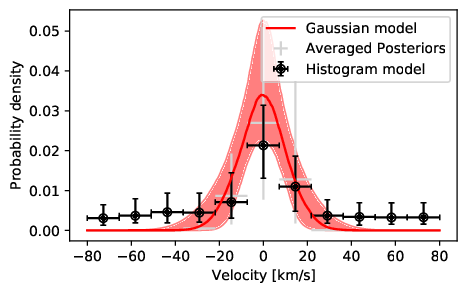
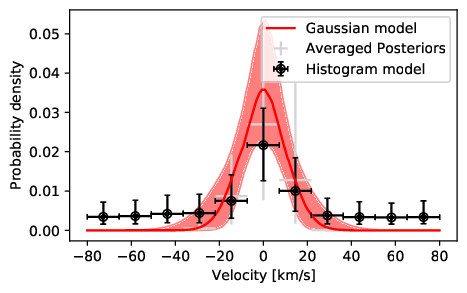
fresh run for tutorial

diff --git a/README.rst b/README.rst
@@ -130,56 +130,56 @@ We run the script with a range limit of +-100 km/s::
 
 	$ python3 posteriorstacker.py posteriorsamples.txt -80 +80 11 --name="Velocity [km/s]"
 	fitting histogram model...
-	[ultranest] Resuming from 2252 stored points
+	[ultranest] Sampling 400 live points from prior ...
 	[ultranest] Explored until L=-1e+01  
-	[ultranest] Likelihood function evaluations: 96583
+	[ultranest] Likelihood function evaluations: 95711
 	[ultranest] Writing samples and results to disk ...
 	[ultranest] Writing samples and results to disk ... done
-	[ultranest]   logZ = -20.48 +- 0.0688
-	[ultranest] Effective samples strategy satisfied (ESS = 791.9, need >400)
-	[ultranest] Posterior uncertainty strategy is satisfied (KL: 0.46+-0.10 nat, need <0.50 nat)
+	[ultranest]   logZ = -20.49 +- 0.06929
+	[ultranest] Effective samples strategy satisfied (ESS = 810.0, need >400)
+	[ultranest] Posterior uncertainty strategy is satisfied (KL: 0.45+-0.12 nat, need <0.50 nat)
 	[ultranest] Evidency uncertainty strategy is satisfied (dlogz=0.14, need <0.5)
 	[ultranest]   logZ error budget: single: 0.07 bs:0.07 tail:0.41 total:0.41 required:<0.50
 	[ultranest] done iterating.
 	
-	logZ = -20.477 +- 0.418
-	  single instance: logZ = -20.477 +- 0.074
-	  bootstrapped   : logZ = -20.484 +- 0.105
+	logZ = -20.500 +- 0.428
+	  single instance: logZ = -20.500 +- 0.072
+	  bootstrapped   : logZ = -20.491 +- 0.137
 	  tail           : logZ = +- 0.405
 	insert order U test : converged: True correlation: inf iterations
 	
-	    bin1                0.044 +- 0.042
-	    bin2                0.053 +- 0.051
-	    bin3                0.066 +- 0.058
-	    bin4                0.065 +- 0.058
-	    bin5                0.103 +- 0.086
-	    bin6                0.31 +- 0.13
-	    bin7                0.16 +- 0.10
-	    bin8                0.054 +- 0.051
-	    bin9                0.049 +- 0.046
-	    bin10               0.047 +- 0.043
-	    bin11               0.048 +- 0.044
+	    bin1                0.050 +- 0.048
+	    bin2                0.053 +- 0.050
+	    bin3                0.061 +- 0.056
+	    bin4                0.064 +- 0.055
+	    bin5                0.109 +- 0.085
+	    bin6                0.32 +- 0.13
+	    bin7                0.146 +- 0.099
+	    bin8                0.055 +- 0.054
+	    bin9                0.049 +- 0.048
+	    bin10               0.048 +- 0.045
+	    bin11               0.049 +- 0.046
 	fitting gaussian model...
-	[ultranest] Resuming from 3697 stored points
+	[ultranest] Sampling 400 live points from prior ...
 	[ultranest] Explored until L=-4e+01  
-	[ultranest] Likelihood function evaluations: 4706
+	[ultranest] Likelihood function evaluations: 4649
 	[ultranest] Writing samples and results to disk ...
 	[ultranest] Writing samples and results to disk ... done
-	[ultranest]   logZ = -47.66 +- 0.1163
-	[ultranest] Effective samples strategy satisfied (ESS = 1017.5, need >400)
-	[ultranest] Posterior uncertainty strategy is satisfied (KL: 0.46+-0.07 nat, need <0.50 nat)
-	[ultranest] Evidency uncertainty strategy is satisfied (dlogz=0.34, need <0.5)
-	[ultranest]   logZ error budget: single: 0.13 bs:0.12 tail:0.41 total:0.42 required:<0.50
+	[ultranest]   logZ = -47.54 +- 0.09947
+	[ultranest] Effective samples strategy satisfied (ESS = 1025.7, need >400)
+	[ultranest] Posterior uncertainty strategy is satisfied (KL: 0.46+-0.08 nat, need <0.50 nat)
+	[ultranest] Evidency uncertainty strategy is satisfied (dlogz=0.33, need <0.5)
+	[ultranest]   logZ error budget: single: 0.13 bs:0.10 tail:0.41 total:0.42 required:<0.50
 	[ultranest] done iterating.
 	
-	logZ = -47.643 +- 0.471
-	  single instance: logZ = -47.643 +- 0.128
-	  bootstrapped   : logZ = -47.657 +- 0.240
+	logZ = -47.527 +- 0.427
+	  single instance: logZ = -47.527 +- 0.127
+	  bootstrapped   : logZ = -47.544 +- 0.135
 	  tail           : logZ = +- 0.405
-	insert order U test : converged: True correlation: inf iterations
+	insert order U test : converged: False correlation: 2030.0 iterations
 	
-	    mean                -0.4 +- 4.9
-	    std                 11.7 +- 5.3
+	    mean                -0.3 +- 4.8
+	    std                 11.6 +- 5.4
 	plotting results ...
 
 Notice the parameters of the fitted gaussian distribution above.
@@ -207,14 +207,8 @@ This is not a statistically meaningful procedure,
 but it can give you ideas what models 
 you may want to try for the sample distribution.
 
-
-Here are the output files::
-
-	$ ls -d posteriorsamples.txt_out*
-	posteriorsamples.txt_out_flex10
-	posteriorsamples.txt_out_flex11
-	posteriorsamples.txt_out_gauss
-	posteriorsamples.txt_out.pdf
+Output files
+------------
 
 * posteriorsamples.txt_out.pdf contains a plot, 
 * posteriorsamples.txt_out_gauss contain the ultranest analyses output assuming a Gaussian distribution.
